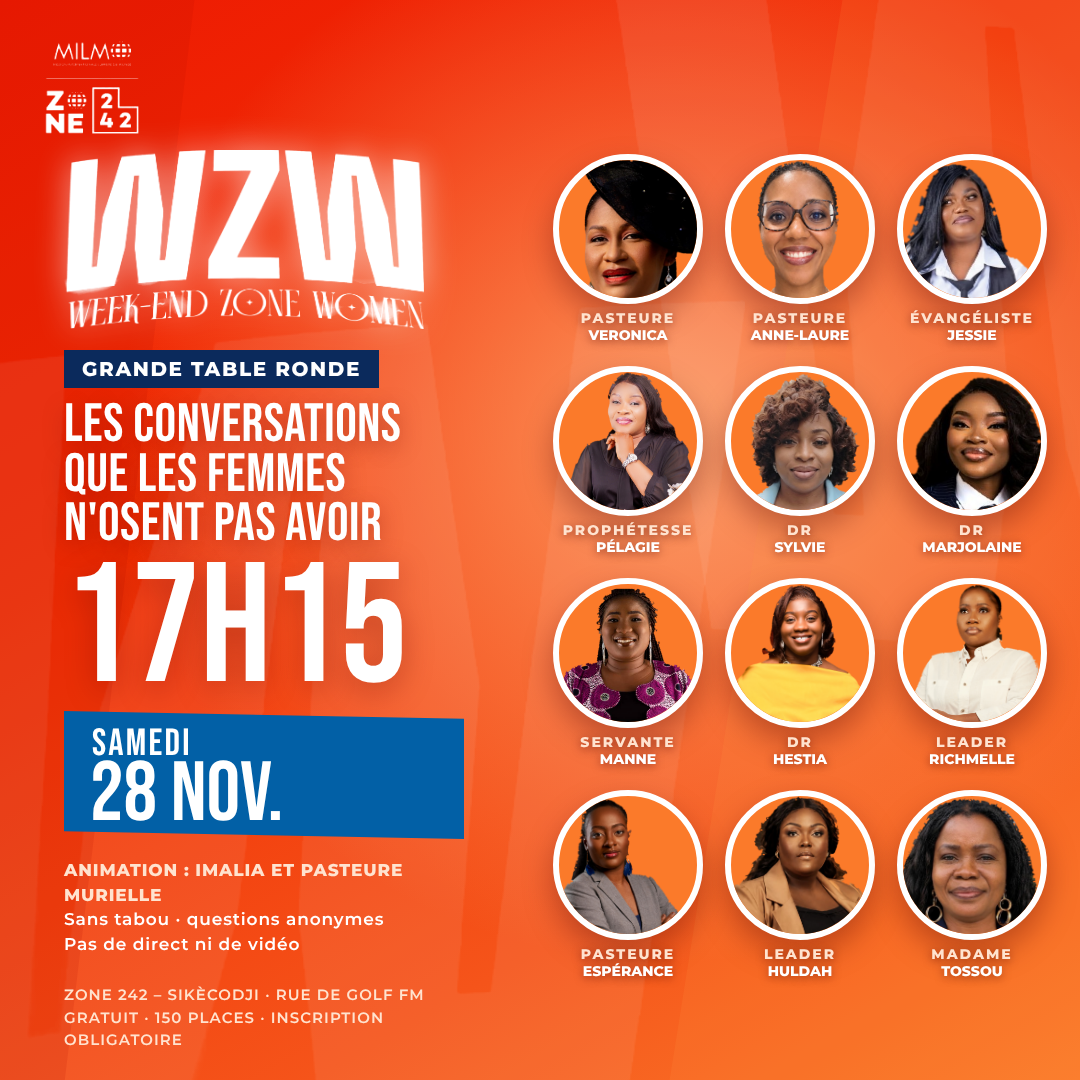
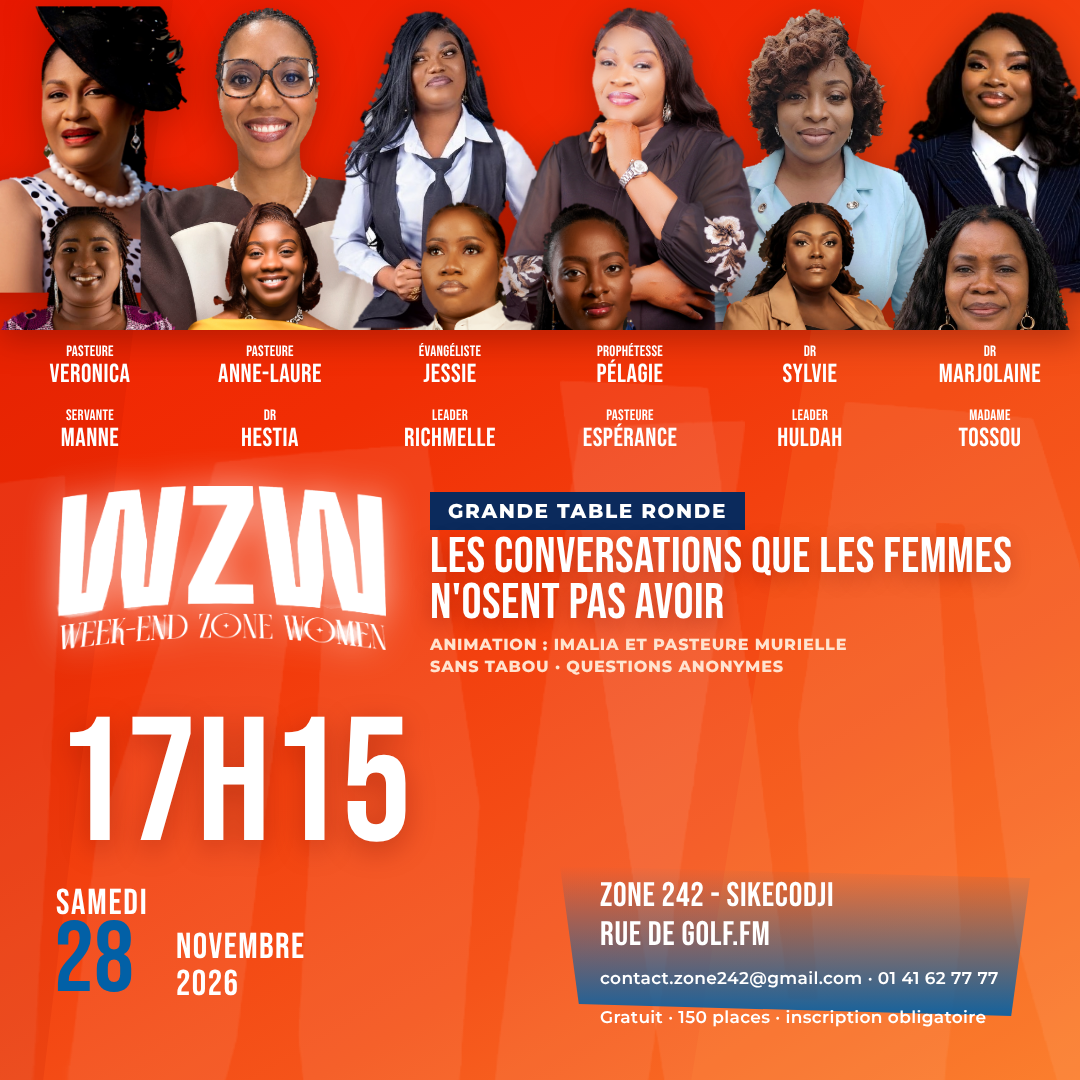
Affiches du samedi (6 sessions) dans la construction de l'affiche officielle
Claude-Session: https://claude.ai/code/session_01MwjzxB6vNBUzfK55D3M67f

diff --git a/zone242-com-session/livrables/scripts-sources/affiches_samedi_officiel.py b/zone242-com-session/livrables/scripts-sources/affiches_samedi_officiel.py
@@ -1,0 +1,77 @@
+# Affiches du samedi (6 sessions) dans la construction de l'affiche officielle : bande de visages, ligne de titres et prénoms, logo, date, adresse.
+# Usage : python affiches_samedi_officiel.py <dossier_sortie>
+import pathlib, sys, shutil, subprocess
+from playwright.sync_api import sync_playwright
+R = pathlib.Path("/home/user/Motion"); HERE = pathlib.Path(__file__).resolve().parent
+OUT = pathlib.Path(sys.argv[1]).resolve(); OUT.mkdir(parents=True, exist_ok=True)
+T = OUT / "_res"; T.mkdir(exist_ok=True)
+for src, n in [("teaser-wzw-reels/assets/montserrat-latin-600-normal.woff2", "m6.woff2"), ("teaser-wzw-reels/assets/montserrat-latin-800-normal.woff2", "m8.woff2"), ("teaser-wzw-reels/assets/bebas-neue-latin-400-normal.woff2", "bb.woff2"),
+               ("un-mot-une-session-reels/assets/lockup.png", "lockup.png"), ("presentation-dr-hestia/assets/logos_alpha.png", "logos.png"), ("teaser-wzw-reels/assets/W1.png", "w1.png"), ("teaser-wzw-reels/assets/W2.png", "w2.png")]:
+    shutil.copy(R / src, T / n)
+for p in ["anne", "pelagie", "jessie", "veronica", "sylvie", "marjolaine", "manne", "hestia", "richmelle", "esperance", "huldah", "tossou"]:
+    subprocess.run([sys.executable, str(HERE / "nettoyer_detourage.py"), str(R / f"annonce-wzw-reference/assets/photos/{p}.png"), str(T / f"{p}.png"), "2"], check=True, capture_output=True)
+CSS = """@font-face{font-family:B;src:url(bb.woff2)}@font-face{font-family:M;font-weight:600;src:url(m6.woff2)}@font-face{font-family:M;font-weight:800;src:url(m8.woff2)}
+*{margin:0;padding:0;box-sizing:border-box}body{width:1080px;height:1080px;position:relative;overflow:hidden;font-family:B;color:#fff;background:linear-gradient(150deg,#ee1a02 0%,#f12e04 36%,#f5541a 74%,#fb7a2a 100%)}
+.a{position:absolute}.lock{filter:drop-shadow(0 0 18px rgba(255,255,255,.6))}
+.ph{position:absolute;filter:drop-shadow(0 8px 18px rgba(70,0,0,.35))}
+.nm{text-align:center;line-height:1}.nm small{display:block;font-size:19px;letter-spacing:.02em;margin-bottom:3px}.nm b{display:block;font-weight:400;font-size:34px;letter-spacing:.02em}
+.lab{background:#0b2a5c;color:#fff;font-family:M;font-weight:800;letter-spacing:.08em;display:inline-block}"""
+BG = ('<img class="a" src="w1.png" style="left:-140px;top:420px;height:900px;opacity:.07;filter:brightness(2)"><img class="a" src="w2.png" style="left:560px;top:380px;height:800px;opacity:.07;filter:brightness(2)">'
+      '<div class="a" style="inset:0;background:#b80f00;opacity:.12;clip-path:polygon(0 0,16% 0,4% 100%,0 100%)"></div><div class="a" style="inset:0;background:#ff9a4a;opacity:.14;clip-path:polygon(80% 0,100% 0,100% 100%,64% 100%)"></div>')
+def faces(ppl, BH, W, rows=1):
+    n = len(ppl); h = ""
+    if rows == 1:
+        for i, (pid, *_ ) in enumerate(ppl):
+            cx = (i + .5) * 1080 / n; z = 100 - abs(i - (n - 1) / 2) * 10
+            h += f'<img class="ph" src="{pid}.png" style="left:{cx - W / 2:.0f}px;top:6px;width:{W}px;z-index:{int(z)}">'
+    else:
+        half = n // 2
+        for r, grp in enumerate((ppl[:half], ppl[half:])):
+            m = len(grp)
+            for i, (pid, *_ ) in enumerate(grp):
+                cx = (i + .5) * 1080 / m + (0 if r == 0 else 0); z = (20 if r == 0 else 60) + int(-abs(i - (m - 1) / 2) * 3)
+                h += f'<img class="ph" src="{pid}.png" style="left:{cx - W / 2:.0f}px;top:{6 if r == 0 else 200}px;width:{W}px;z-index:{z}">'
+    return f'<div class="a" style="left:0;top:0;width:1080px;height:{BH}px;overflow:hidden;box-shadow:0 10px 30px rgba(80,0,0,.35)">{h}</div>'
+def names(ppl, top, rows=1):
+    n = len(ppl); out = ""
+    groups = [ppl] if rows == 1 else [ppl[:n // 2], ppl[n // 2:]]
+    for r, grp in enumerate(groups):
+        m = len(grp); w = 1080 / m
+        for i, (_, t, nm) in enumerate(grp):
+            fs, ts = (34, 19) if rows == 1 else (26, 15)
+            out += f'<div class="a nm" style="left:{i * w:.0f}px;top:{top + r * 64}px;width:{w:.0f}px"><small style="font-size:{ts}px">{t}</small><b style="font-size:{fs}px">{nm}</b></div>'
+    return out
+def bottom(label, title, tfs, time, extra=""):
+    h = f'<img class="a lock" src="lockup.png" style="left:56px;top:{TOP2}px;width:330px">'
+    h += f'<div class="a" style="left:430px;top:{TOP2 + 6}px"><span class="lab" style="font-size:20px;padding:7px 18px">{label}</span></div>'
+    h += f'<div class="a" style="left:430px;top:{TOP2 + 48}px;font-size:{tfs}px;line-height:.92;letter-spacing:.01em;text-shadow:0 6px 20px rgba(110,10,0,.35);width:620px">{title}</div>'
+    h += f'<div class="a" style="left:56px;top:{TOP3}px;font-size:176px;line-height:.82;text-shadow:0 8px 28px rgba(110,10,0,.35)">{time}</div>'
+    h += f'<div class="a" style="left:56px;top:{TOP3 + 170}px;font-size:36px;line-height:1;letter-spacing:.05em">SAMEDI</div><div class="a" style="left:54px;top:{TOP3 + 204}px;font-size:100px;line-height:.82;color:#0260a6">28</div><div class="a" style="left:176px;top:{TOP3 + 214}px;font-size:36px;line-height:1.02;letter-spacing:.04em">NOVEMBRE<br>2026</div>'
+    h += '<div class="a" style="left:560px;top:@@px;width:470px;height:150px;background:linear-gradient(180deg,rgba(2,96,166,0),rgba(2,96,166,.92));clip-path:polygon(0 0,100% 8%,96% 100%,4% 92%)"></div>'.replace("@@", str(TOP3 + 150))
+    h += '<div class="a" style="left:600px;top:@@px;font-size:34px;line-height:1.15;letter-spacing:.02em">ZONE 242 - SIKECODJI<br>RUE DE GOLF.FM<br><span style="font-family:M;font-weight:600;font-size:17px;letter-spacing:.02em">contact.zone242@gmail.com · 01 41 62 77 77</span><br><span style="font-family:M;font-weight:600;font-size:17px;letter-spacing:.02em">Gratuit · 150 places · inscription obligatoire</span></div>'.replace("@@", str(TOP3 + 160))
+    return h + extra
+PAGES = {}
+def page(name, ppl, label, title, tfs, time, BH, W, rows=1, nrows=1, extra=""):
+    global TOP2, TOP3
+    ns = BH + 14; nh = 74 if nrows == 1 else 130
+    TOP2 = ns + nh + 12; TOP3 = TOP2 + 230
+    PAGES[name] = BG + faces(ppl, BH, W, rows) + names(ppl, ns, nrows) + bottom(label, title, tfs, time, extra.replace("@@", str(TOP2 + 148)))
+TOP2 = TOP3 = 0
+P = lambda pid, t, nm: (pid, t, nm)
+page("p1", [P("pelagie", "PROPHÉTESSE", "PÉLAGIE"), P("anne", "PASTEURE", "ANNE-LAURE"), P("jessie", "ÉVANGÉLISTE", "JESSIE"), P("veronica", "PASTEURE", "VERONICA")], "PANEL 1", "GUÉRIR DES TRAUMATISMES<br>ÉMOTIONNELS", 70, "10H30", 380, 470)
+page("sante", [P("sylvie", "DR · MÉDECIN GÉNÉRALISTE", "SYLVIE"), P("marjolaine", "DR · COSMÉTOLOGUE", "MARJOLAINE")], "SESSION SANTÉ", "BELLE ET EN<br>BONNE SANTÉ", 80, "12H00", 400, 560)
+page("p2", [P("manne", "SERVANTE", "MANNE"), P("hestia", "DR", "HESTIA"), P("richmelle", "LEADER", "RICHMELLE")], "PANEL 2", "ME VOICI,<br>ENVOIE-MOI !", 80, "14H00", 390, 520)
+page("p3", [P("esperance", "PASTEURE", "ESPÉRANCE"), P("huldah", "LEADER", "HULDAH"), P("pelagie", "PROPHÉTESSE", "PÉLAGIE")], "PANEL 3", "FEMME, FOI<br>ET FINANCES", 80, "15H00", 390, 520)
+page("p4", [P("tossou", "MADAME", "TOSSOU"), P("hestia", "DR", "HESTIA"), P("pelagie", "PROPHÉTESSE", "PÉLAGIE")], "PANEL 4", "MA MAISON,<br>MA MISSION", 80, "16H00", 390, 520)
+allp = [P("veronica", "PASTEURE", "VERONICA"), P("anne", "PASTEURE", "ANNE-LAURE"), P("jessie", "ÉVANGÉLISTE", "JESSIE"), P("pelagie", "PROPHÉTESSE", "PÉLAGIE"), P("sylvie", "DR", "SYLVIE"), P("marjolaine", "DR", "MARJOLAINE"),
+        P("manne", "SERVANTE", "MANNE"), P("hestia", "DR", "HESTIA"), P("richmelle", "LEADER", "RICHMELLE"), P("esperance", "PASTEURE", "ESPÉRANCE"), P("huldah", "LEADER", "HULDAH"), P("tossou", "MADAME", "TOSSOU")]
+page("table_ronde", allp, "GRANDE TABLE RONDE", "LES CONVERSATIONS QUE LES FEMMES<br>N'OSENT PAS AVOIR", 50, "17H15", 330, 260, rows=2, nrows=2,
+     extra='<div class="a" style="left:430px;top:@@px;font-family:M;font-weight:800;font-size:16px;letter-spacing:.05em;color:#ffe3cf;line-height:1.4;width:620px;white-space:nowrap">ANIMATION : IMALIA ET PASTEURE MURIELLE<br>SANS TABOU · QUESTIONS ANONYMES</div>')
+with sync_playwright() as pw:
+    b = pw.chromium.launch(executable_path="/opt/pw-browsers/chromium", args=["--no-sandbox"])
+    for k, body in PAGES.items():
+        f = T / f"{k}.html"; f.write_text(f"<!doctype html><meta charset=utf-8><style>{CSS}</style>{body}")
+        pg = b.new_context(viewport={"width": 1080, "height": 1080}).new_page(); pg.goto("file://" + str(f)); pg.evaluate("document.fonts.ready"); pg.wait_for_timeout(500)
+        pg.screenshot(path=str(OUT / f"Affiche_Samedi_{k}_WZW_1080x1080.png"))
+    b.close()
+shutil.rmtree(T); print("ok")
